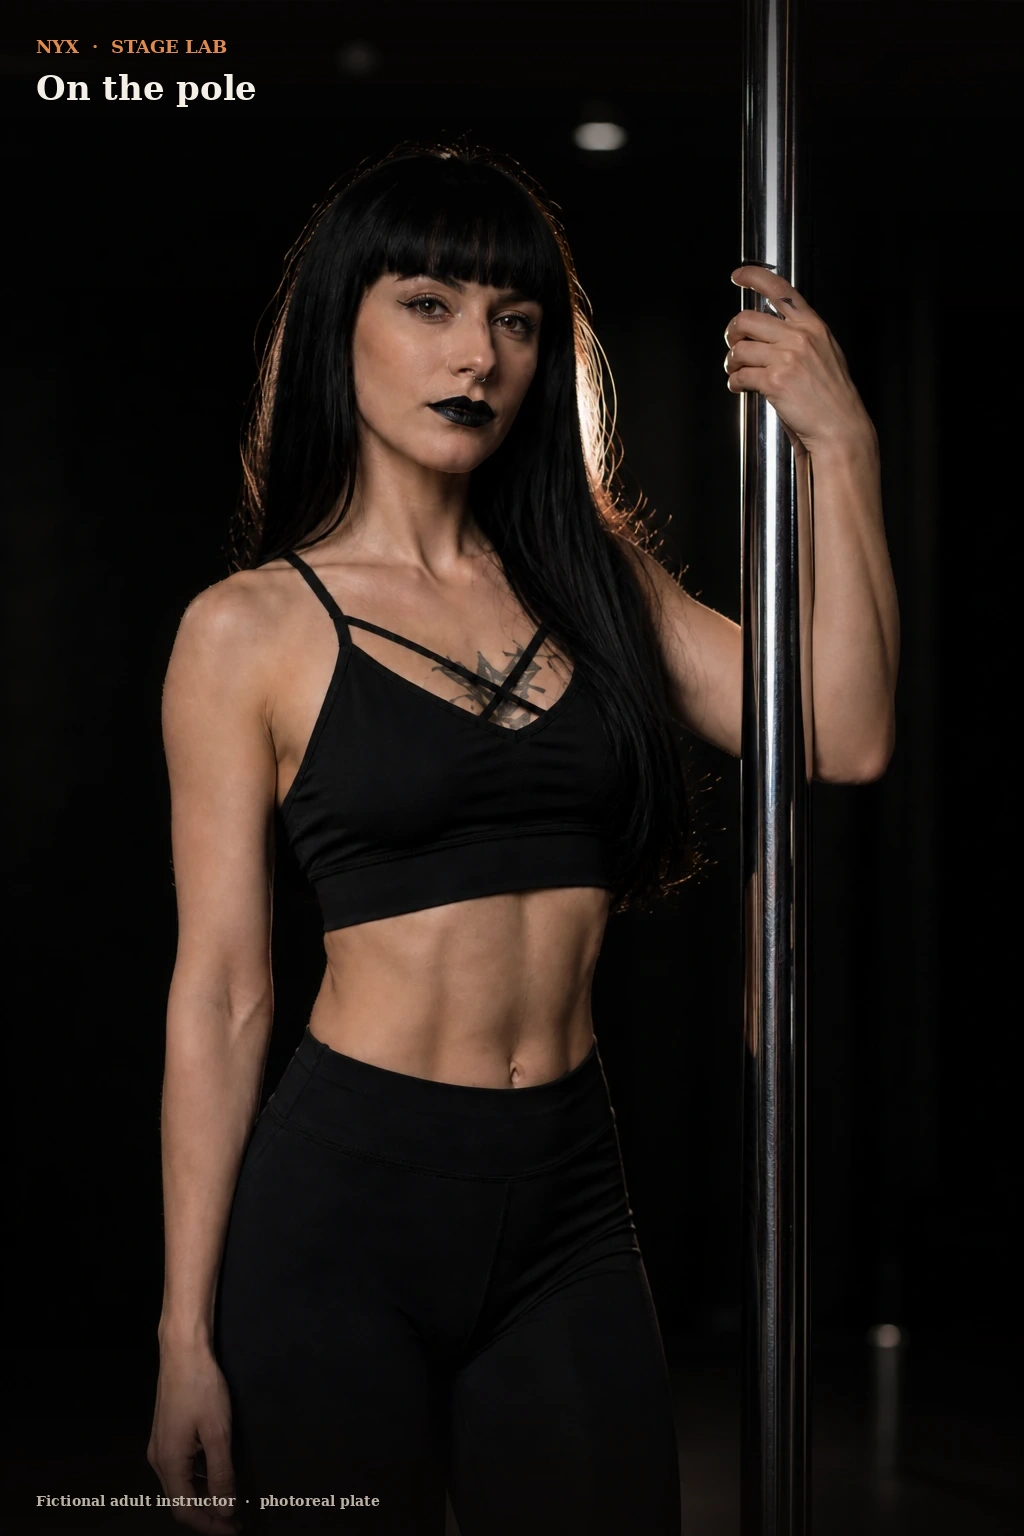
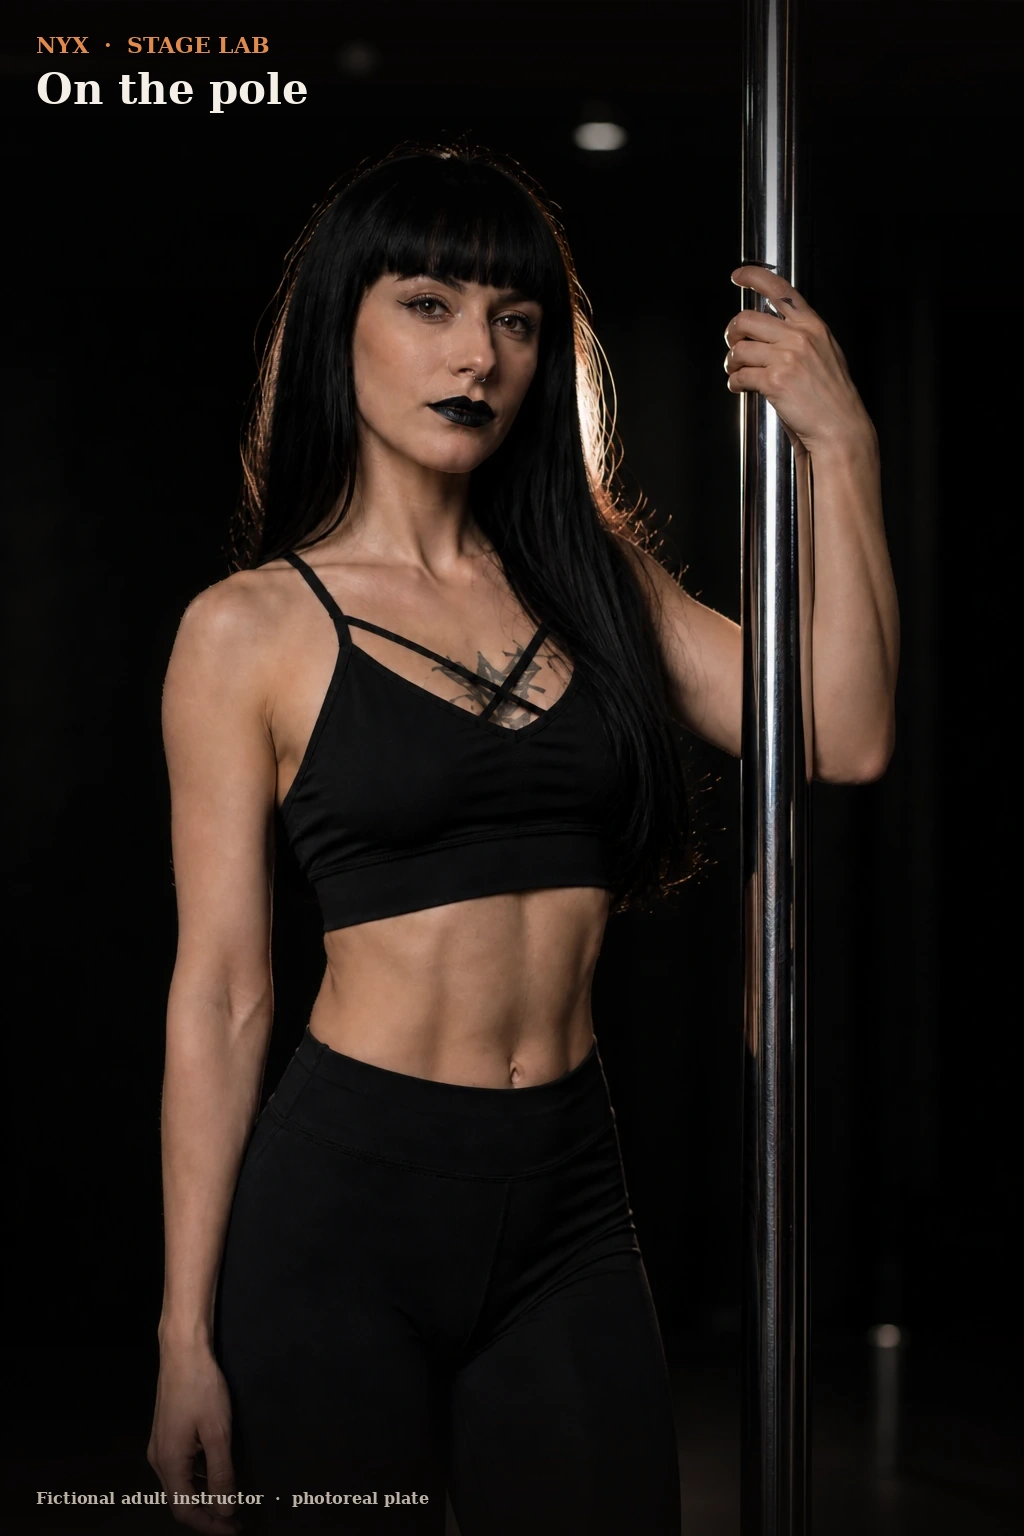
Enlarge STAGE LAB type on Nyx editorial plates.
Keep the plates as the same photoreal photographs with a clearer copper caption so the plate channel is distinct from the studio still.

Changed region(s): [[0.0312, 0.0, 0.3125, 0.0938], [0.0312, 0.9688, 0.4062, 1.0]]

diff --git a/scripts/nyx_plates.py b/scripts/nyx_plates.py
@@ -58,13 +58,13 @@ def plate(src_name: str, dest_name: str, title: str) -> None:
     shade(src, 0, int(h * 0.22), 170, 0)
     shade(src, int(h * 0.86), h, 0, 200)
     draw = ImageDraw.Draw(src)
-    draw.text((36, 36), "NYX  ·  STAGE LAB", fill=COPPER, font=font(18))
-    draw.text((36, 68), title, fill=CREAM, font=font(34))
+    draw.text((36, 32), "NYX  ·  STAGE LAB", fill=COPPER, font=font(22))
+    draw.text((36, 64), title, fill=CREAM, font=font(42))
     draw.text(
-        (36, h - 44),
+        (36, h - 48),
         "Fictional adult instructor  ·  photoreal plate",
         fill=MUTED,
-        font=font(14),
+        font=font(16),
     )
     out = src.convert("RGB")
     dest = OUT / dest_name
